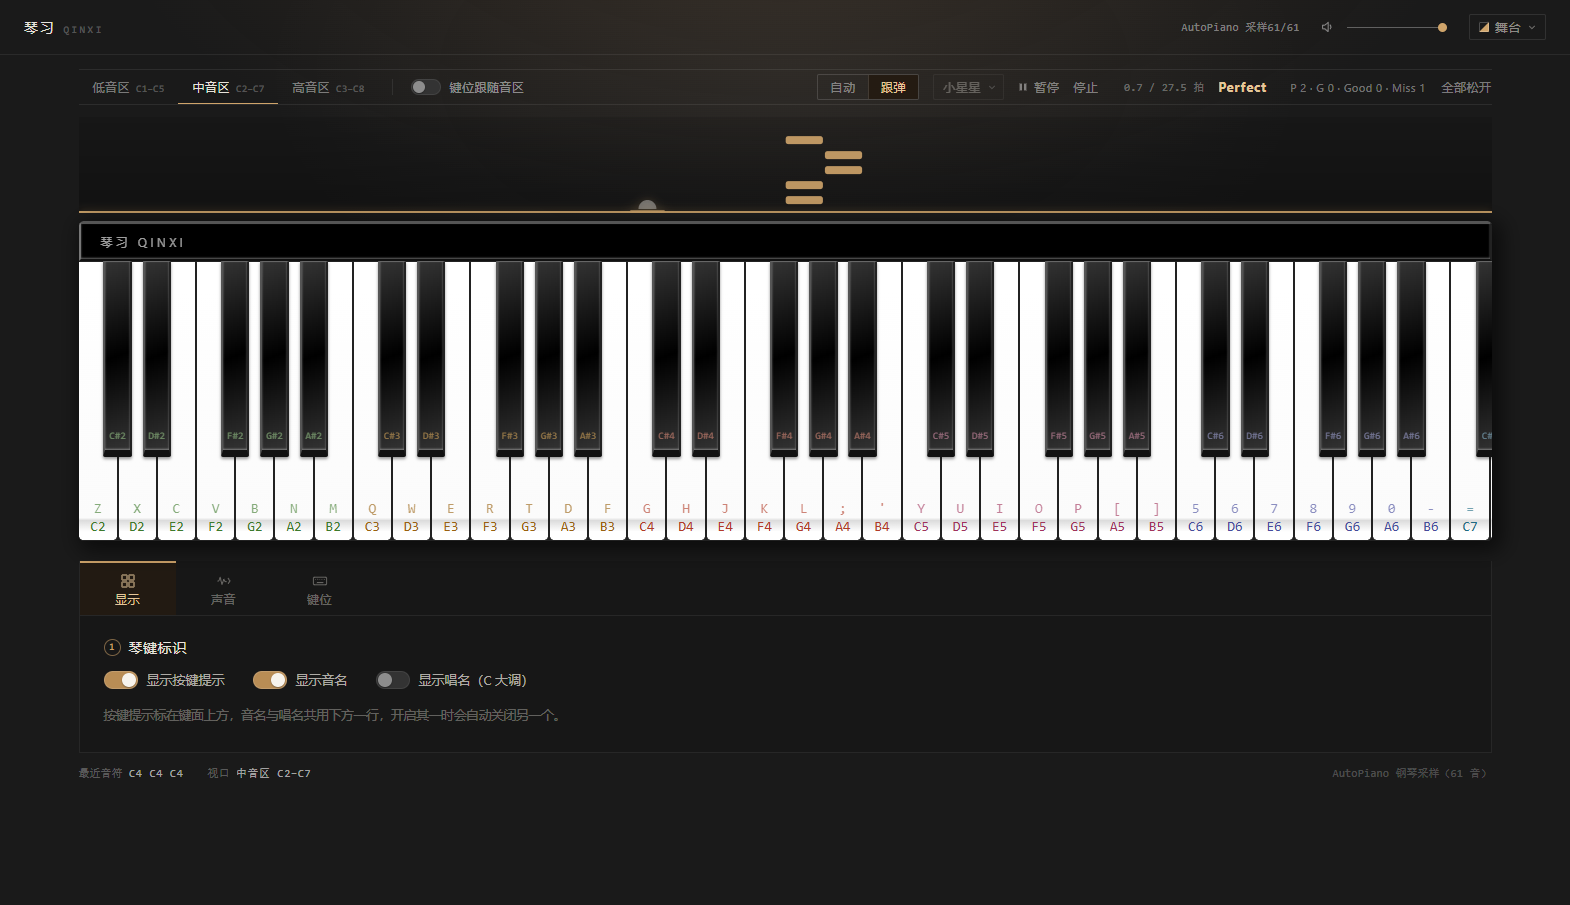
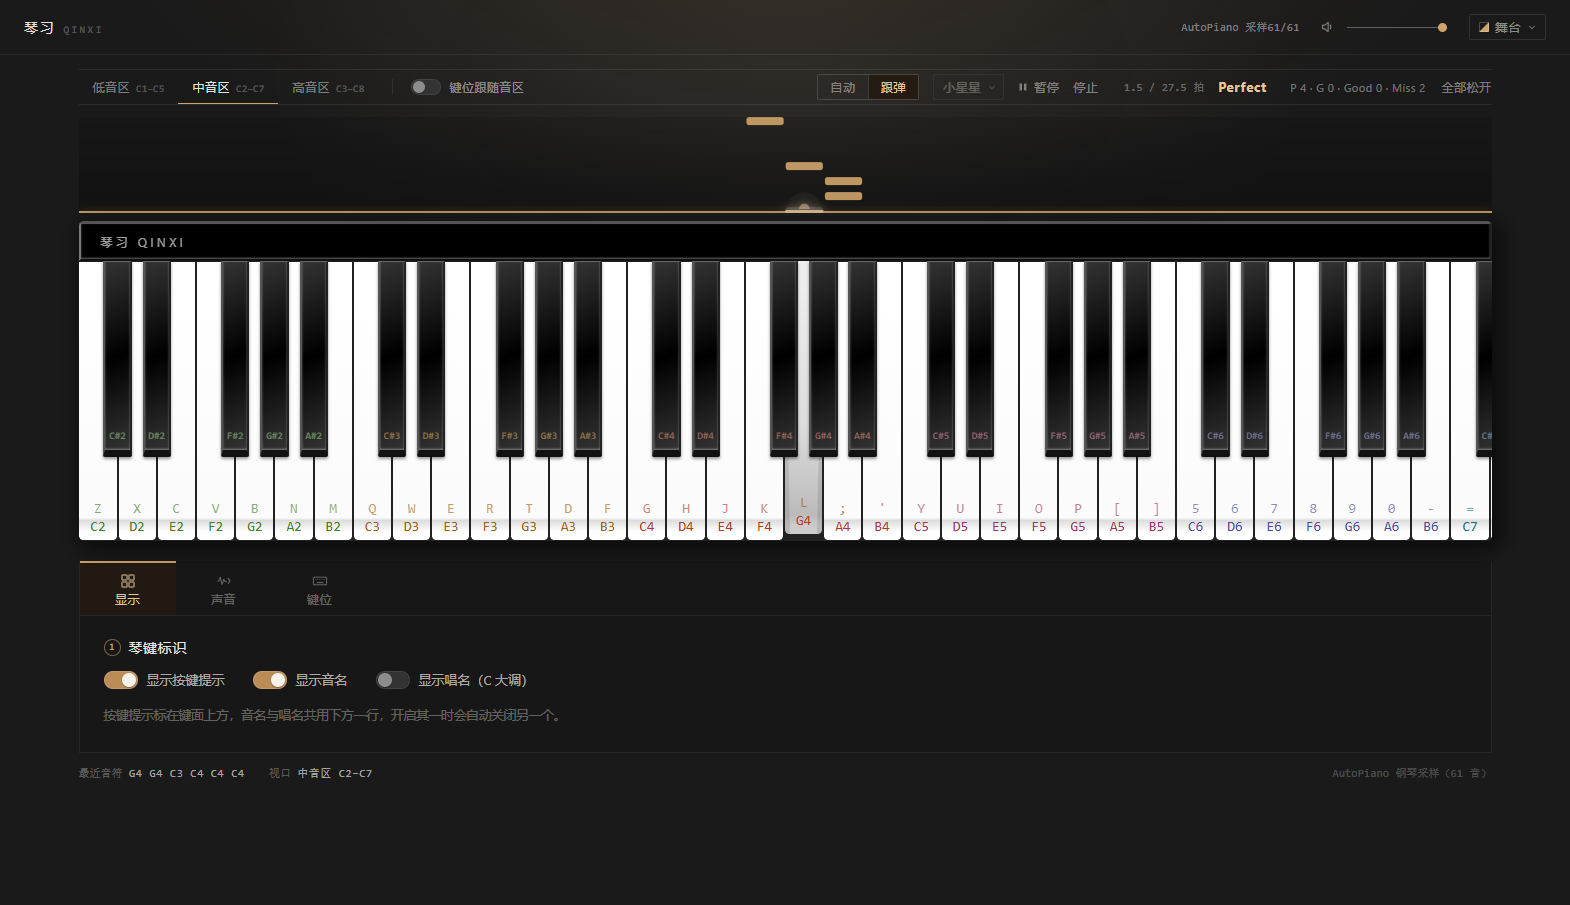
feat: 判定闪光分档配色（金/白/红）+ 弹完结算统计
- 命中反馈配色：Perfect 金光（--qin-accent-strong）、Great/Good 白光（Good 更暗）、
  Miss 红光（--qin-danger-rgb）；Miss 也闪，不再静默
- 弹完（播完或停止）HUD 显示结算：各档数量 + 占谱面总音符数百分比，
  如「跟弹统计（共 45 音）：Perfect 41 (91.1%) · … · Miss 2 (4.4%)」；
  乱按的错音计入 Miss，占比照实显示
- CDP 实测：金光/红光截图各一、结算文案正确（共 45 音）、252 项测试全过、零 console error

diff --git a/src/App.vue b/src/App.vue
@@ -128,6 +128,8 @@ const FOLLOW_PREROLL_SECONDS = 2;
 const judgedMap = new Map<number, Grade>();
 const followStats = reactive({ perfect: 0, great: 0, good: 0, miss: 0 });
 const lastGrade = ref<Grade | null>(null);
+/** 弹完（或停止）后的结算：各档数量 + 占谱面总音符数的比例 */
+const followSummary = ref('');
 /** 跟弹进行中（判定与清扫挂在这个条件下） */
 const followActive = computed(() => playMode.value === 'follow' && playState.value === 'playing');
 let currentNotes: NoteEvent[] = [];
@@ -179,6 +181,19 @@ function stopRenderLoop(): void {
 
 // ---------------------------------------------------------------- 跟弹判定
 
+const GRADE_ORDER: ReadonlyArray<Grade> = ['perfect', 'great', 'good', 'miss'];
+
+/** 结算文案：各档数量 + 占谱面总音符数的百分比（错音多按会让 Miss 超过总数，照实显示） */
+function buildFollowSummary(totalNotes: number): string {
+  if (totalNotes === 0) return '';
+  const parts = GRADE_ORDER.map((grade) => {
+    const count = followStats[grade];
+    const percent = totalNotes > 0 ? ((count / totalNotes) * 100).toFixed(1) : '0.0';
+    return `${GRADE_LABEL[grade]} ${count} (${percent}%)`;
+  });
+  return `跟弹统计（共 ${totalNotes} 音）：${parts.join(' · ')}`;
+}
+
 function resetFollowProgress(): void {
   judgedMap.clear();
   followStats.perfect = 0;
@@ -186,6 +201,7 @@ function resetFollowProgress(): void {
   followStats.good = 0;
   followStats.miss = 0;
   lastGrade.value = null;
+  followSummary.value = '';
 }
 
 const GRADE_LABEL: Record<Grade, string> = { perfect: 'Perfect', great: 'Great', good: 'Good', miss: 'Miss' };
@@ -218,10 +234,9 @@ function judgeFollowPress(pitch: number): void {
     judgedMap,
     transport.secondsPerBeat,
   );
-  if (hit.note) {
-    judgedMap.set(hit.index, hit.grade);
-    followCanvas.value?.flash(hit.note.pitch, hit.grade);
-  }
+  if (hit.note) judgedMap.set(hit.index, hit.grade);
+  // 四档都在判定线上闪：Perfect 金 / Great·Good 白 / Miss 红
+  followCanvas.value?.flash(hit.pitch, hit.grade);
   recordJudgment(hit);
 }
 
@@ -296,6 +311,9 @@ function stopPlayback(): void {
   playState.value = 'idle';
   stopRenderLoop();
   autoPressed.value = new Set();
+  if (playMode.value === 'follow') {
+    followSummary.value = buildFollowSummary(currentNotesRef.value.length);
+  }
   updateProgress(transport.snapshot);
 }
 
@@ -305,6 +323,7 @@ function onPlaybackEnd(): void {
     for (let index = 0; index < currentNotesRef.value.length; index += 1) {
       if (!judgedMap.has(index)) recordMissed(index);
     }
+    followSummary.value = buildFollowSummary(currentNotesRef.value.length);
   }
   playState.value = 'idle';
   stopRenderLoop();
@@ -737,6 +756,7 @@ onBeforeUnmount(() => {
               <b :class="`grade-${lastGrade ?? 'none'}`">{{ lastGrade ? GRADE_LABEL[lastGrade] : '—' }}</b>
               <span>P {{ followStats.perfect }} · G {{ followStats.great }} · Good {{ followStats.good }} · Miss {{ followStats.miss }}</span>
             </span>
+            <span v-else-if="followSummary" class="player__judge player__judge--summary" role="status">{{ followSummary }}</span>
           </div>
           <button type="button" class="text-btn" @click="releaseAll">全部松开</button>
         </div>

diff --git a/src/components/FollowCanvas.vue b/src/components/FollowCanvas.vue
@@ -91,7 +91,17 @@ const palette = {
   accent: '207, 164, 106',
   ink: '231, 227, 220',
   white: '255, 255, 255',
+  gold: '255, 198, 92',
+  red: '255, 110, 92',
 };
+
+/** '#rrggbb' → 'r, g, b'（读主题的强调亮色当金色） */
+function hexToRgb(hex: string): string {
+  const match = /^#([0-9a-f]{6})$/i.exec(hex.trim());
+  if (!match) return '';
+  const value = Number.parseInt(match[1], 16);
+  return `${(value >> 16) & 255}, ${(value >> 8) & 255}, ${value & 255}`;
+}
 
 function readPalette(): void {
   if (typeof window === 'undefined') return;
@@ -100,6 +110,8 @@ function readPalette(): void {
   palette.accent = pick('--qin-accent-rgb', palette.accent);
   palette.ink = pick('--qin-ink-rgb', palette.ink);
   palette.white = pick('--qin-w-rgb', palette.white);
+  palette.gold = hexToRgb(pick('--qin-accent-strong', '#ffc65c')) || palette.gold;
+  palette.red = pick('--qin-danger-rgb', palette.red);
 }
 
 function resize(): void {
@@ -198,22 +210,26 @@ function draw(): void {
     if (!geo) continue;
     const x = (geo.left + geo.width / 2) * unit - scrollLeft;
     const t = age / FLASH_SECONDS;
-    // Perfect 最亮，Great / Good 递减
-    const strength = hit.grade === 'perfect' ? 1 : hit.grade === 'great' ? 0.72 : 0.5;
+    // 配色：Perfect 金光、Great / Good 白光（Good 更暗）、Miss 红光
+    const color =
+      hit.grade === 'perfect' ? palette.gold
+      : hit.grade === 'miss' ? palette.red
+      : palette.white;
+    const strength = hit.grade === 'perfect' ? 1 : hit.grade === 'great' ? 0.85 : hit.grade === 'good' ? 0.55 : 0.75;
     const alpha = (1 - t) * strength;
 
     // 判定线上的一小段亮条，向两边收
     const halfWidth = (geo.width * unit) / 2 * (1 - 0.35 * t);
     ctx.save();
-    ctx.shadowColor = `rgba(${palette.accent}, ${alpha})`;
+    ctx.shadowColor = `rgba(${color}, ${alpha})`;
     ctx.shadowBlur = 10;
-    ctx.fillStyle = `rgba(${palette.accent}, ${alpha})`;
+    ctx.fillStyle = `rgba(${color}, ${alpha})`;
     ctx.fillRect(x - halfWidth, lineY - 3, halfWidth * 2, 3);
     // 向上散开的光点
     ctx.beginPath();
     ctx.arc(x, lineY - 4, 4 + 14 * t, Math.PI, 0);
     ctx.closePath();
-    ctx.fillStyle = `rgba(${palette.white}, ${alpha * 0.55})`;
+    ctx.fillStyle = `rgba(${color}, ${alpha * 0.55})`;
     ctx.fill();
     ctx.restore();
   }
@@ -237,9 +253,8 @@ function stopLoop(): void {
   draw(); // 补一帧静止画面（暂停 / 停止后的残影清掉）
 }
 
-/** 弹对了在判定线上闪一下（App 判定成功时调用；Miss 不闪） */
+/** 判定后在判定线上闪一下（App 判定完成就调用，Miss 闪红光） */
 function flash(pitch: number, grade: Grade): void {
-  if (grade === 'miss') return;
   flashes.push({ pitch, born: performance.now(), grade });
 }
 

diff --git a/README.md b/README.md
@@ -219,10 +219,14 @@ docs/screenshots/  界面截图（PR 用）
   长条正好从顶部落到线，不做零帧起手；预备期拍位为负，判定 / 清扫都不会误触发。颜色优先区分左右手
   （`NoteEvent.hand`：右手 = 主题强调色、左手 = 亮墨色），谱面没有 hand 信息时回落按黑白键区分
   （黑键条加亮边），已判定的沉成暗灰。
-- **命中反馈**：弹对时（Perfect / Great / Good）判定线上对应键的位置闪一下——线上一小段亮条
-  向两边收 + 一个向上散开的光弧，0.38s 内衰减；档位越高越亮，Miss 不闪。
+- **命中反馈**：判定完成后判定线上对应键的位置闪一下——线上一小段亮条向两边收 + 一个向上散开的
+  光弧，0.38s 内衰减。**配色分档**：Perfect 金光（主题强调亮色）、Great / Good 白光（Good 更暗）、
+  Miss 红光（主题危险色）。
 - 判定结果同步打到控制台：`[琴习·判定] Perfect C4 Δ-12ms` / `MISS（错音）` / `MISS（漏按）@8.5拍`，
   控制栏 HUD 显示最近判定与四档计数。
+- **弹完结算**：播完（或停止）后 HUD 显示各档数量与占谱面总音符数的比例，
+  如 `跟弹统计（共 45 音）：Perfect 41 (91.1%) · Great 2 (4.4%) · Good 0 (0.0%) · Miss 2 (4.4%)`；
+  乱按的错音也计入 Miss，所以 Miss 占比可能超过漏掉的音数。
 
 ![跟弹模式](docs/screenshots/follow-notes.png)
 
